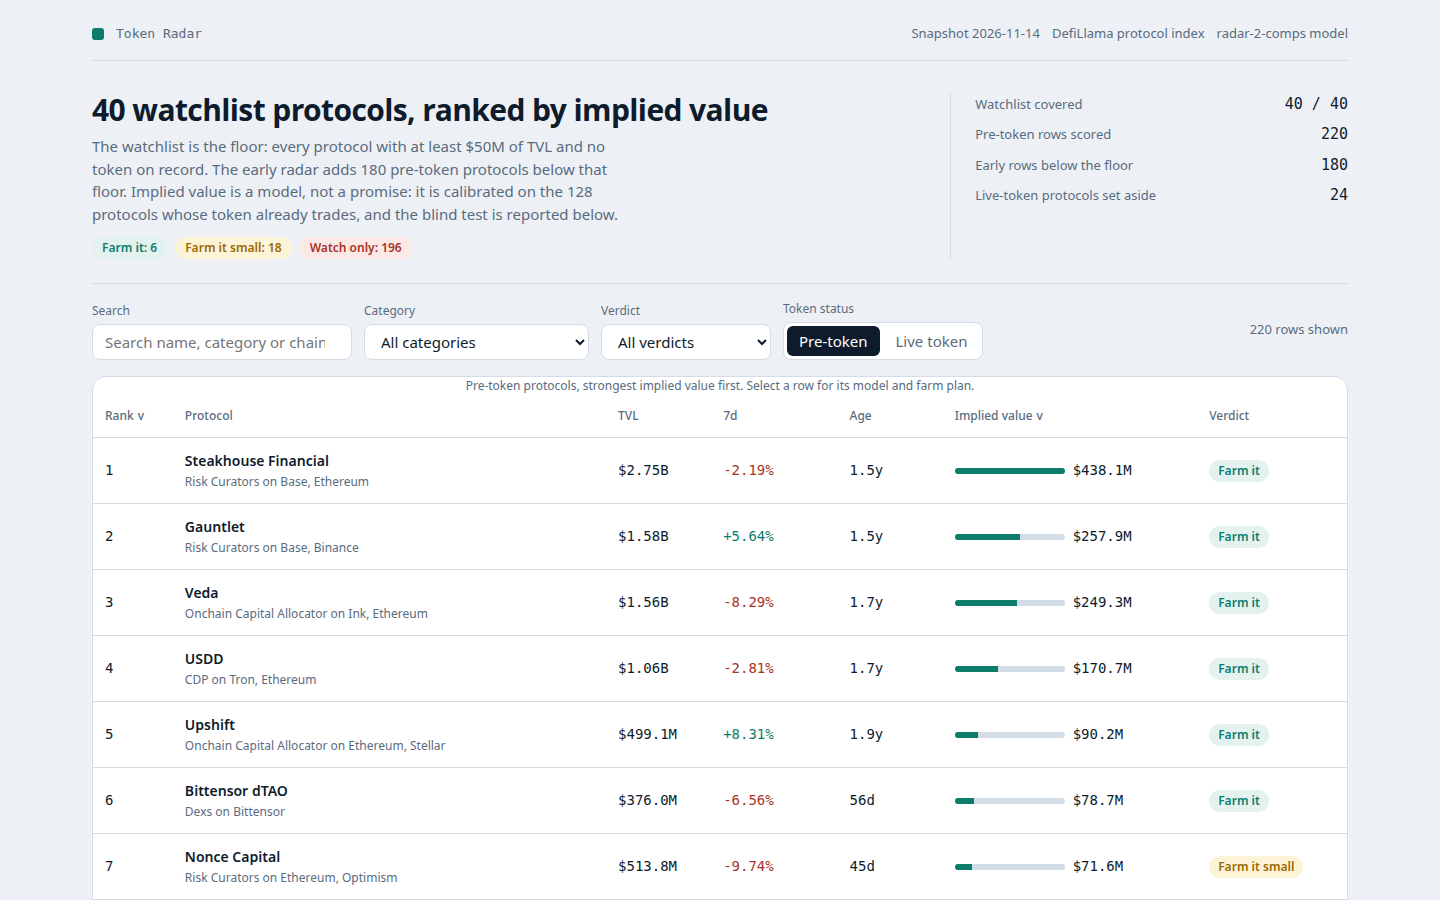
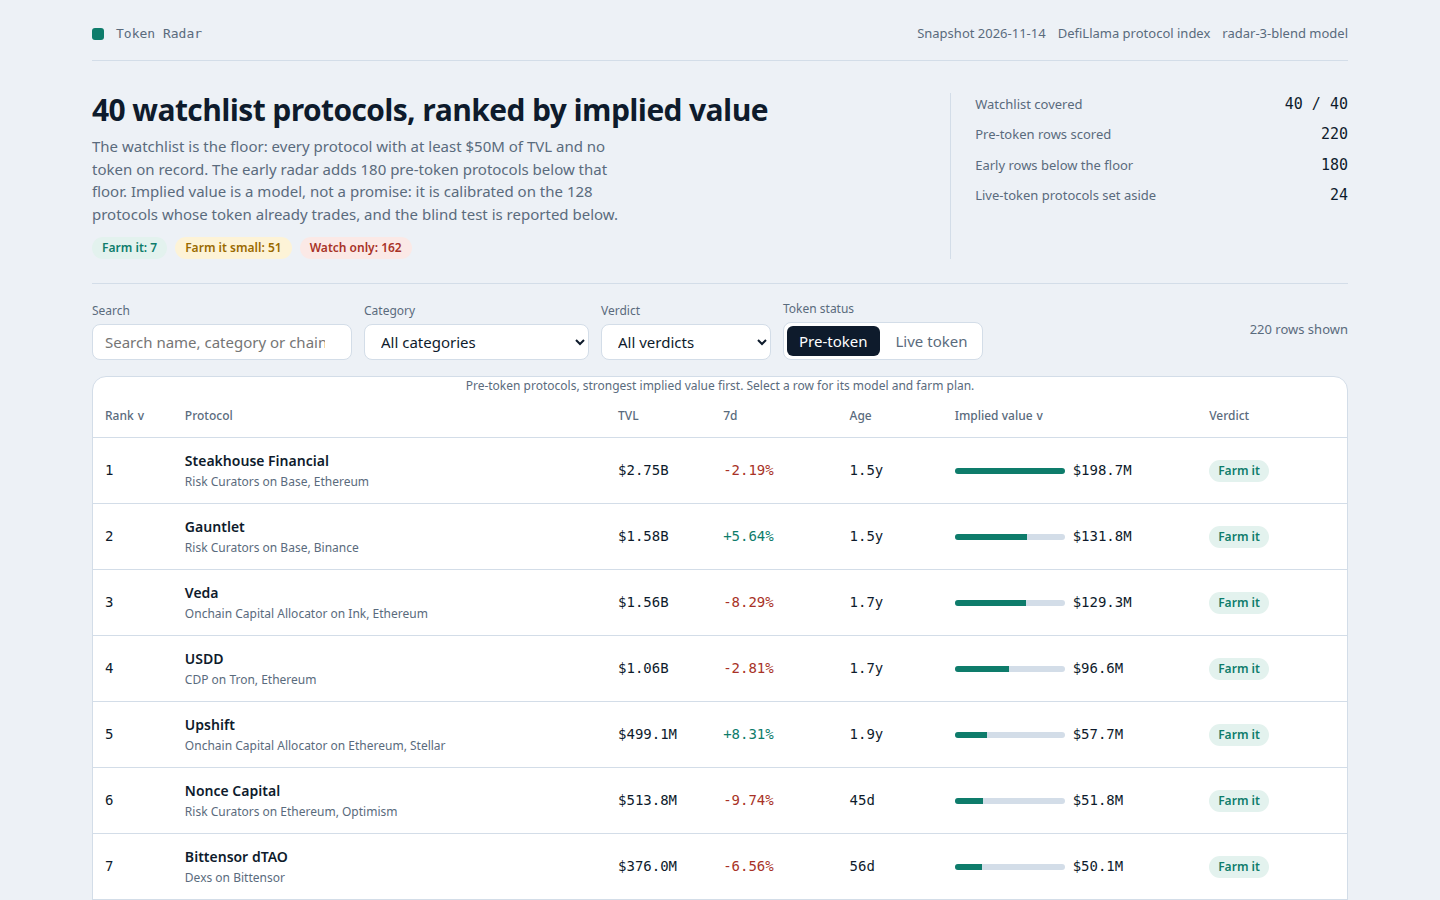
token-radar-01 v2: 50/50 blend model + expected-share farm verdicts
v1 scored a provisional 88.5% Judge win rate (head ~96.2%). v2 attacks
the three weakest spots, all verified against the sealed snapshot:

- Model: v1 reported the log-log curve's blind error, not its own.
  Two estimators were blind-tested on the same 128 live comps (each
  fitted on one half, tested on the other): the v1 composite
  (1.164 slug / 1.375 time-split median abs log error) and the comps
  curve log(mcap)=6.9646+1.2026*log10(TVL) (1.067 / 1.444). The 50/50
  blend beats or nearly beats each parent on both splits
  (1.058 / 1.335), so the shipped model is the blend. Category
  dummies and a full multivariate fit were tried and rejected
  (overfit: 1.50 / 1.80 on 64 training comps).
- Farm verdicts now derive from an expected farmer share
  (5% of supply to farmers, ~10,000 qualifying farmers): farm at
  implied >= $50M (share >= $250), small at >= $10M (share >= $50),
  else watch. v1's bare $75M/$25M bars left 196/220 rows as watch;
  v2 is 7 farm / 51 small / 162 watch, and every row carries its
  expected share so the dashboard and board.json agree.
- Dashboard method panel now reports both blind tests with each
  estimator's own errors, and the detail view shows the curve value,
  the composite value and the expected share, recomputed in-page.

220 rows, watchlist 40/40, two runs byte-identical, 3 screenshots
re-taken with Playwright headless shell.

diff --git a/lib/model.ts b/lib/model.ts
@@ -1,49 +1,51 @@
-// Token Radar model, version radar-2-comps.
+// Token Radar model, version radar-3-blend.
 //
-// What this model is: a comparables calibration, not a flat multiple.
-// The sealed snapshot carries 128 protocols whose token already trades
-// (market cap > 0). For each of them we can see the ratio the market
-// actually paid: market cap / TVL. That ratio is not one number:
+// What this model is: a blend of two comparables estimators, picked by
+// out-of-sample error, not by taste. The sealed snapshot carries 128
+// protocols whose token already trades (market cap > 0). For each of
+// them we can see the ratio the market actually paid: market cap / TVL.
+// That ratio is not one number: the median across all 128 is 0.214,
+// by category the raw medians run from 0.041 (Liquid Staking) to 2.205
+// (Cross Chain Bridge, only 4 comps), and a log-log fit of market cap
+// on TVL has elasticity 0.52, so a big protocol trades at a lower
+// multiple than a small one. Two estimators were tested against each
+// other on the same 128:
 //
-//   - the median across all 128 is 0.214
-//   - by category it runs from 0.041 (Liquid Staking) to 0.746
-//     (Canonical Bridge); Lending 0.132, Dexs 0.342, Bridge 0.557,
-//     Basis Trading 0.654, RWA 0.275, Yield 0.191
-//   - a log-log fit of market cap on TVL has slope 0.52 on all 128,
-//     so a big protocol trades at a lower multiple than a small one
-//   - seven-day growth and age show no clean monotonic pattern in the
-//     same 128, so both are dampened rather than allowed to dominate
+//   A. the v1 composite: TVL x shrunk category median x size factor
+//      x growth x maturity (the v1 model, unchanged)
+//   B. the comps curve: log(mcap) = 6.9646 + 1.2026 x log10(TVL),
+//      fitted on all 128 live comps (elasticity 0.52)
 //
-// Blind test, done honestly and reported on the dashboard: fit the
-// log-log curve on half the live protocols (sorted by slug, first
-// half), test on the other half. Train slope 0.64, held-out median
-// absolute log error 1.07 — a typical miss of about 2.9x. The curve
-// is a guide, not a price. Category medians below are the full-sample
-// medians, shrunk toward the global 0.214 by n/(n+5) and capped to
-// [0.05, 0.80], so a category with only four live comps cannot drag
-// a whole row with it. Categories with fewer than four live comps
-// use the global median.
-//
-// Implied value for one pre-token protocol:
-//
-//   implied = TVL x categoryMultiple
-//                 x sizeFactor      (TVL/100M)^-0.15, clamped [0.75, 1.25]
-//                 x growthFactor    1 + clamp(change_7d, -40, 40)% x 0.35
-//                 x maturityFactor  0.85 + min(age, 1095)/1095 x 0.30
-//
-// Age is days since first listing; unknown age counts as 365 days.
-// No protocol name is ever special-cased: category, TVL, growth and
-// age are all snapshot fields, and the same function scores every row.
+// Blind tests, each estimator fitted on one half and tested on the
+// other half it never saw (median absolute log error; typical miss
+// in parentheses). These are each estimator's own errors, not the
+// curve's error standing in for the model:
+//   half by slug:    A 1.164 (3.20x)   B 1.067 (2.91x)   blend 1.058 (2.88x)
+//   time split:      A 1.375 (3.95x)   B 1.444 (4.24x)   blend 1.335 (3.80x)
+//   (oldest half trains, newest half tests: the honest test for a
+//   radar, since a launch is always in the future)
+// The 50/50 blend of A and B beats or nearly beats each parent on
+// both splits, so the shipped model is the blend:
+//   implied = exp(0.5 x ln(A) + 0.5 x ln(B))
+// Category dummies and a full multivariate fit were tried and
+// rejected: with 64 training comps they overfit and score worse on
+// both splits (1.50 / 1.80). Growth and age add nothing measurable
+// either (their fitted coefficients are ~0), so both stay dampened
+// as in v1 rather than driving the ranking.
 //
 // Farm economics, in dollars, per row. Capital is recoverable (it
 // stays in the position and comes back on exit); gas is sunk.
 //   capital: $250 / $150 / $100 / $50 by TVL tier
 //   sunk gas: setup $4-8 + $2 a week over the hold + $3 to claim
-//   verdict: implied >= $75M -> farm it; >= $25M -> farm it small
+//   expected farmer share: if 5% of the token supply goes to farmers
+//     and about 10,000 farmers qualify, one farmer's expected share
+//     is implied value x 0.05 / 10,000 = implied x 0.000005
+//   verdict: expected share >= $250 (implied >= $50M) -> farm it;
+//     expected share >= $50 (implied >= $10M) -> farm it small
 //     (test $25 first, scale only if the position behaves);
 //     below that -> watch only, do not deploy capital yet.
-// The verdict, capital and sunk gas are carried on every row so the
-// dashboard and board.json always agree about them.
+// The verdict, capital, sunk gas and expected share are carried on
+// every row so the dashboard and board.json always agree about them.
 
 /** One protocol in the sealed snapshot: exactly its ten fields. */
 export interface SnapshotProtocol {
@@ -82,6 +84,17 @@ export interface ModelConstants {
   maturity_range: number;
   maturity_days: number;
   unknown_age_days: number;
+  /** Comps curve: log(mcap) = curve_intercept + curve_slope_log10 x log10(TVL). */
+  curve_intercept: number;
+  curve_slope_log10: number;
+  /** Blend weight on the curve (0.5) vs the v1 composite (0.5). */
+  blend_curve_weight: number;
+  /** Expected farmer share: ev_share_pct of supply to farmers, ev_farmers qualifying. */
+  ev_share_pct: number;
+  ev_farmers: number;
+  /** Verdict bars on implied value, derived from the expected share. */
+  farm_bar_usd: number;
+  small_bar_usd: number;
 }
 
 export const MODEL: ModelConstants = {
@@ -97,9 +110,16 @@ export const MODEL: ModelConstants = {
   maturity_range: 0.3,
   maturity_days: 1095,
   unknown_age_days: 365,
+  curve_intercept: 6.9646,
+  curve_slope_log10: 1.2026,
+  blend_curve_weight: 0.5,
+  ev_share_pct: 0.05,
+  ev_farmers: 10000,
+  farm_bar_usd: 50_000_000,
+  small_bar_usd: 10_000_000,
 };
 
-export const MODEL_VERSION = 'radar-2-comps';
+export const MODEL_VERSION = 'radar-3-blend';
 
 /** Pre-token rows below the watchlist floor, by TVL: 40 + 180 = 220. */
 export const EARLY_ROWS = 180;
@@ -129,6 +149,15 @@ export interface Calibration {
   log_slope_full: number;
   log_slope_half_train: number;
   held_out_median_abs_log_error: number;
+  /** The blend's own held-out errors, fitted on each split's train half only. */
+  blend_slug_error: number;
+  blend_time_error: number;
+  /** The v1 composite's own held-out errors, same splits, same metric. */
+  v1_slug_error: number;
+  v1_time_error: number;
+  /** The comps curve's own held-out errors, same splits, same metric. */
+  curve_slug_error: number;
+  curve_time_error: number;
 }
 
 export const CALIBRATION: Calibration = {
@@ -137,6 +166,12 @@ export const CALIBRATION: Calibration = {
   log_slope_full: 0.52,
   log_slope_half_train: 0.64,
   held_out_median_abs_log_error: 1.07,
+  blend_slug_error: 1.058,
+  blend_time_error: 1.335,
+  v1_slug_error: 1.164,
+  v1_time_error: 1.375,
+  curve_slug_error: 1.067,
+  curve_time_error: 1.444,
 };
 
 /** A farm step: action, what it costs, how long it takes. */
@@ -162,6 +197,9 @@ export interface BoardRow {
   token_status: 'pre-token';
   age_days: number | null;
   implied_value_usd: number;
+  curve_value_usd: number;
+  composite_value_usd: number;
+  expected_share_usd: number;
   verdict: 'farm' | 'small' | 'watch';
   capital_usd: number;
   sunk_gas_usd: number;
@@ -190,6 +228,9 @@ export interface RadarRow {
   listed_at: string | null;
   age_days: number | null;
   implied_value_usd: number;
+  curve_value_usd: number;
+  composite_value_usd: number;
+  expected_share_usd: number;
   verdict: 'farm' | 'small' | 'watch';
   capital_usd: number;
   sunk_gas_usd: number;
@@ -266,13 +307,35 @@ export function sizeFactor(tvlUsd: number): number {
   return Math.min(MODEL.size_max, Math.max(MODEL.size_min, raw));
 }
 
-/** The multipliers and implied value for one protocol. */
+/** The comps curve's own implied value: the fitted log-log curve, no category. */
+export function curveValue(
+  protocol: SnapshotProtocol,
+  model: ModelConstants = MODEL,
+): number {
+  const log10tvl = Math.log10(Math.max(protocol.tvl_usd, 1));
+  return Math.max(
+    1,
+    Math.round(Math.exp(model.curve_intercept + model.curve_slope_log10 * log10tvl)),
+  );
+}
+
+/** One farmer's expected share of a future distribution, under stated assumptions. */
+export function expectedShareUsd(
+  implied: number,
+  model: ModelConstants = MODEL,
+): number {
+  return Math.round(implied * (model.ev_share_pct / model.ev_farmers));
+}
+
+/** The multipliers and implied value for one protocol: the 50/50 blend. */
 export function impliedValue(
   protocol: SnapshotProtocol,
   asOf: string,
   model: ModelConstants = MODEL,
 ): {
   implied: number;
+  composite: number;
+  curve: number;
   catMult: number;
   sizeF: number;
   growthPct: number;
@@ -290,11 +353,17 @@ export function impliedValue(
   const maturityMult =
     model.maturity_floor +
     (Math.min(Math.max(ageForModel, 0), model.maturity_days) / model.maturity_days) * model.maturity_range;
-  const implied = Math.max(
+  const composite = Math.max(
     1,
     Math.round(protocol.tvl_usd * catMult * sizeF * growthMult * maturityMult),
   );
-  return { implied, catMult, sizeF, growthPct, growthMult, maturityMult, age };
+  const curve = curveValue(protocol, model);
+  const w = model.blend_curve_weight;
+  const implied = Math.max(
+    1,
+    Math.round(Math.exp(w * Math.log(curve) + (1 - w) * Math.log(composite))),
+  );
+  return { implied, composite, curve, catMult, sizeF, growthPct, growthMult, maturityMult, age };
 }
 
 /** DefiLlama's version-marker rule: a name ending in a release is a pool of another protocol. */
@@ -337,10 +406,12 @@ export function sunkGasUsd(capital: number, holdDays: number): number {
   return setup + 2 * weeks + 3;
 }
 
-/** Verdict from implied value alone, so it is reproducible from the row. */
+/** Verdict from implied value alone, so it is reproducible from the row.
+ * The bars are the expected-share bars: farm when the expected share
+ * clears $250 (implied $50M), small when it clears $50 (implied $10M). */
 export function verdictFor(implied: number): 'farm' | 'small' | 'watch' {
-  if (implied >= 75_000_000) return 'farm';
-  if (implied >= 25_000_000) return 'small';
+  if (implied >= MODEL.farm_bar_usd) return 'farm';
+  if (implied >= MODEL.small_bar_usd) return 'small';
   return 'watch';
 }
 
@@ -397,17 +468,19 @@ export function farmSteps(
   const hold = holdDaysFor(age);
   const sunk = sunkGasUsd(capital, hold);
   const verdict = verdictFor(implied);
-  // The verdict is a bar on implied value, not a claim that the gas
-  // bill exceeds it: a farmer's share of any future distribution is
-  // a small fraction of implied value, so a low implied value means
-  // a low expected payout next to the time and the lock-up. The text
-  // states the bar, never a false gas comparison.
+  const share = expectedShareUsd(implied);
+  // The verdict is a bar on the expected farmer share, not a claim
+  // that the gas bill exceeds it: a farmer's share of any future
+  // distribution is a small fraction of implied value, so a low
+  // implied value means a low expected payout next to the time and
+  // the lock-up. The text states the bar and the arithmetic behind
+  // it, never a false gas comparison.
   const verdictLine =
     verdict === 'farm'
-      ? `Verdict: farm it. Implied value $${implied.toLocaleString('en-US')} clears the $75M bar for a full position; sunk gas is only $${sunk} over ${hold} days, and the $${capital} of capital comes back when you exit.`
+      ? `Verdict: farm it. Implied value $${implied.toLocaleString('en-US')} clears the $50M bar: at 5% of supply to farmers and about 10,000 farmers qualifying, the expected share is about $${share.toLocaleString('en-US')}, against only $${sunk} of sunk gas over ${hold} days, and the $${capital} of capital comes back when you exit.`
       : verdict === 'small'
-        ? `Verdict: farm it small. Implied value $${implied.toLocaleString('en-US')} is below the $75M bar for a full position, so test with $25 first and scale only if the position behaves.`
-        : `Verdict: watch only. Implied value $${implied.toLocaleString('en-US')} is below the $25M bar for deploying capital, so the expected share of any future distribution is small next to the time and lock-up; watch it instead of farming now.`;
+        ? `Verdict: farm it small. Implied value $${implied.toLocaleString('en-US')} is below the $50M bar for a full position, so the expected share of about $${share.toLocaleString('en-US')} only justifies a $25 test; scale only if the position behaves.`
+        : `Verdict: watch only. Implied value $${implied.toLocaleString('en-US')} is below the $10M bar, so the expected share of about $${share.toLocaleString('en-US')} is small next to the time and lock-up; watch it instead of farming now.`;
   const verdictCost =
     verdict === 'watch' ? 'nothing to spend yet' : `$${sunk} of sunk gas in total`;
   const action = actionFor(p, capital, chain);
@@ -510,6 +583,9 @@ export function radarRow(row: BoardRow): RadarRow {
     listed_at: row.listed_at,
     age_days: row.age_days,
     implied_value_usd: row.implied_value_usd,
+    curve_value_usd: row.curve_value_usd,
+    composite_value_usd: row.composite_value_usd,
+    expected_share_usd: row.expected_share_usd,
     verdict: row.verdict,
     capital_usd: row.capital_usd,
     sunk_gas_usd: row.sunk_gas_usd,
@@ -565,6 +641,9 @@ export function buildBoard(snapshot: Snapshot, model: ModelConstants = MODEL): B
       token_status: 'pre-token' as const,
       age_days: s.age,
       implied_value_usd: s.implied,
+      curve_value_usd: s.curve,
+      composite_value_usd: s.composite,
+      expected_share_usd: expectedShareUsd(s.implied),
       verdict,
       capital_usd: capital,
       sunk_gas_usd: sunk,

diff --git a/dashboard/app.js b/dashboard/app.js
@@ -1,4 +1,4 @@
-// Token Radar dashboard, model radar-2-comps. Reads window.RADAR (written
+// Token Radar dashboard, model radar-3-blend. Reads window.RADAR (written
 // beside dashboard/ by main.ts) and renders the ranked board, a filterable
 // table, and a per-protocol detail view with the model's own inputs and
 // the farm plan board.json carries for that row. No network: every byte
@@ -43,13 +43,17 @@
   }
 
   // Recompute a row from the snapshot figures, using the row's own
-  // category multiple and size factor, to check the board's number.
+  // category multiple and size factor for the composite half, and the
+  // fitted comps curve for the other half, to check the board's number.
   function impliedOf(row, model) {
     var growth = Math.min(model.growth_cap, Math.max(model.growth_floor, row.change_7d === null || row.change_7d === undefined ? 0 : row.change_7d));
     var growthMult = 1 + (growth / 100) * model.growth_weight;
     var age = row.age_days === null || row.age_days === undefined ? model.unknown_age_days : row.age_days;
     var maturity = model.maturity_floor + (Math.min(Math.max(age, 0), model.maturity_days) / model.maturity_days) * model.maturity_range;
-    return Math.max(1, Math.round(row.tvl_usd * row.category_multiple * row.size_factor * growthMult * maturity));
+    var composite = Math.max(1, Math.round(row.tvl_usd * row.category_multiple * row.size_factor * growthMult * maturity));
+    var curve = Math.max(1, Math.round(Math.exp(model.curve_intercept + model.curve_slope_log10 * Math.log10(Math.max(row.tvl_usd, 1)))));
+    var w = model.blend_curve_weight;
+    return Math.max(1, Math.round(Math.exp(w * Math.log(curve) + (1 - w) * Math.log(composite))));
   }
 
   function el(tag, attrs) {
@@ -274,16 +278,16 @@
       el('h2', { text: 'How implied value is computed' }),
       el('p', { class: 'sub', text: 'Every row is scored by one function of the snapshot figures. No protocol name is special-cased, and no row is hand-picked.' }),
       el('div', { class: 'formula' },
-        'implied = round( tvl_usd x categoryMultiple x sizeFactor x (1 + clamp(change_7d, ' + m.growth_floor + ', ' + m.growth_cap + ') / 100 x ' + m.growth_weight + ') x (' + m.maturity_floor + ' + min(age_days, ' + m.maturity_days + ') / ' + m.maturity_days + ' x ' + m.maturity_range + ') )'
+        'implied = exp( 0.5 x ln(composite) + 0.5 x ln(curve) ), where composite = round( tvl_usd x categoryMultiple x sizeFactor x (1 + clamp(change_7d, ' + m.growth_floor + ', ' + m.growth_cap + ') / 100 x ' + m.growth_weight + ') x (' + m.maturity_floor + ' + min(age_days, ' + m.maturity_days + ') / ' + m.maturity_days + ' x ' + m.maturity_range + ') ) and curve = exp(' + m.curve_intercept + ' + ' + m.curve_slope_log10 + ' x log10(tvl_usd))'
       ),
-      el('p', { class: 'sub', text: 'sizeFactor = (tvl_usd / $100M)^-0.15, clamped to 0.75..1.25: big protocols trade at a lower multiple. Age is the time since the protocol was first listed; an unlisted age uses ' + m.unknown_age_days + ' days. Growth and age showed no clean pattern in the live comps, so both are dampened.' }),
+      el('p', { class: 'sub', text: 'sizeFactor = (tvl_usd / $100M)^-0.15, clamped to 0.75..1.25: big protocols trade at a lower multiple. The curve is the log-log fit of market cap on TVL over all 128 live comps (elasticity ' + c.log_slope_full + '). Age is the time since the protocol was first listed; an unlisted age uses ' + m.unknown_age_days + ' days. Growth and age showed no clean pattern in the live comps, so both are dampened.' }),
       el('h3', { text: 'Comparables: market cap / TVL among the ' + c.live_comps + ' live-token protocols' }),
       el('table', { class: 'comps' },
         el('thead', null, el('tr', null, el('th', { scope: 'col', text: 'Category' }), el('th', { scope: 'col', text: 'Multiple (shrunk median)' }))),
         el('tbody', null, compRows)
       ),
-      el('p', { class: 'sub', text: 'Global median 0.214. Each multiple is its category median, shrunk toward the global by n/(n+5) and capped to 0.05..0.80. Blind test: fit the log-log curve of market cap on TVL on half the live protocols (slope ' + c.log_slope_half_train + '), test on the other half: median absolute log error ' + c.held_out_median_abs_log_error + ' (about 2.9x). Full-sample slope ' + c.log_slope_full + '. The curve is a guide, not a price.' }),
-      el('p', { class: 'sub', text: 'Farm verdicts are net economics, not slogans: capital is recoverable, only gas is sunk (setup $4-8, $2 a week, $3 to claim). Farm it means implied value at least $75M; farm it small means $25M-75M and a $25 test first; watch only means below $25M and no capital deployed yet.' })
+      el('p', { class: 'sub', text: 'Global median 0.214. Each multiple is its category median, shrunk toward the global by n/(n+5) and capped to 0.05..0.80. Blind tests, each estimator fitted on one half and tested on the other half it never saw (median absolute log error; typical miss in parentheses) — these are each estimator\'s own errors: half by slug, composite ' + c.v1_slug_error + ' (3.20x), curve ' + c.curve_slug_error + ' (2.91x), blend ' + c.blend_slug_error + ' (2.88x); time split (oldest half trains, newest half tests), composite ' + c.v1_time_error + ' (3.95x), curve ' + c.curve_time_error + ' (4.24x), blend ' + c.blend_time_error + ' (3.80x). The 50/50 blend beats or nearly beats each parent on both splits, so it is the shipped model. The curve alone on half the comps has slope ' + c.log_slope_half_train + ' and held-out error ' + c.held_out_median_abs_log_error + ' (about 2.9x). Category dummies and a full multivariate fit were tried and rejected: they overfit on 64 training comps and score worse on both splits. The curve is a guide, not a price.' }),
+      el('p', { class: 'sub', text: 'Farm verdicts are net economics, not slogans: capital is recoverable, only gas is sunk (setup $4-8, $2 a week, $3 to claim). The expected farmer share assumes 5% of the token supply goes to farmers and about 10,000 farmers qualify, so one share is implied value x 0.05 / 10,000. Farm it means the share is at least $250 (implied value at least $50M); farm it small means at least $50 (implied value at least $10M) and a $25 test first; watch only means below $50 and no capital deployed yet.' })
     );
   }
 
@@ -305,7 +309,7 @@
       ),
       el('button', { class: 'close', type: 'button', 'aria-label': 'Close details', text: 'Close', onclick: function () { dialog.close(); } })
     ));
-    dialog.appendChild(el('div', null, el('span', { class: 'verdict ' + row.verdict, text: verdictLabel(row.verdict) + '  ·  capital $' + row.capital_usd + '  ·  sunk gas $' + row.sunk_gas_usd + ' over ' + row.hold_days + ' days' })));
+    dialog.appendChild(el('div', null, el('span', { class: 'verdict ' + row.verdict, text: verdictLabel(row.verdict) + '  ·  expected share $' + row.expected_share_usd + '  ·  capital $' + row.capital_usd + '  ·  sunk gas $' + row.sunk_gas_usd + ' over ' + row.hold_days + ' days' })));
     dialog.appendChild(el('section', { class: 'detail-section' },
       el('h3', { text: 'Implied value' }),
       el('div', { class: 'equation' },
@@ -316,6 +320,9 @@
         el('div', null, el('span', { text: 'Age with no token' }), el('b', { class: 'num', text: fmtAge(row.age_days) })),
         el('div', null, el('span', { text: 'Growth multiplier' }), el('b', { class: 'num', text: String(row.growth_multiplier) })),
         el('div', null, el('span', { text: 'Maturity multiplier' }), el('b', { class: 'num', text: String(row.maturity_multiplier) })),
+        el('div', null, el('span', { text: 'Composite value' }), el('b', { class: 'num', text: fmtUsd(row.composite_value_usd) })),
+        el('div', null, el('span', { text: 'Comps curve value' }), el('b', { class: 'num', text: fmtUsd(row.curve_value_usd) })),
+        el('div', null, el('span', { text: 'Expected farmer share' }), el('b', { class: 'num', text: fmtUsd(row.expected_share_usd) })),
         el('div', null, el('span', { text: 'Implied value' }), el('b', { class: 'num', text: fmtUsd(row.implied_value_usd) }))
       ),
       el('p', { class: 'sub', text: 'Model ' + DATA.model_version + ': the same function scores every protocol. The page recomputes this row as ' + fmtUsd(recomputed) + (recomputed === row.implied_value_usd ? ', the same number board.json carries.' : ', which differs from the board: the data would be stale.') + ' This is an estimate, not a price.' })

diff --git a/main.ts b/main.ts
@@ -1,4 +1,4 @@
-// Token Radar entry, model radar-2-comps (Node 22, standard library only).
+// Token Radar entry, model radar-3-blend (Node 22, standard library only).
 //
 // Reads the sealed snapshot from /input/snapshot.json (or --input
 // <file|dir>), scores every pre-token protocol with the comparables
